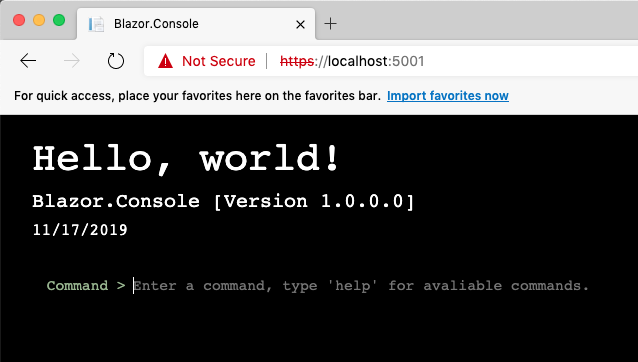
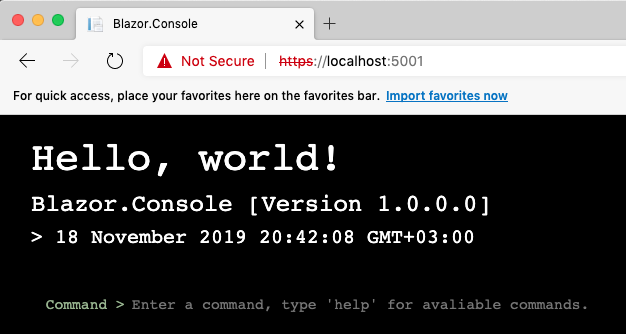
Examples

diff --git a/demo/wwwroot/Blazor.Console/styles.css b/demo/wwwroot/Blazor.Console/styles.css
@@ -15,29 +15,63 @@ body {
     background-color: black;
 }
 
-#container {
+#console #header pre {
+    font-size: 9pt;
+    color: #757575;
+    margin-left: -50px;
+}
+
+#console #container {
     padding: .1em 1.5em 1em 1em;
+    margin-top: -40px;
 }
 
-#container pre {
-    height: auto;
-    margin-bottom: -50px;
-}
+    #console #container pre {
+        height: auto;
+        margin-bottom: 0px;
+        color: #757575;
+    }
 
-#container output {
-    clear: both;
-    width: 100%;
-}
+        #console #container pre .header {
+            font-weight: bold;
+            color: #96b38a;
+        }
 
-#container output h3 {
-    margin: 0;
-}
+        #console #container pre .command {
+            color: yellow;
+        }
 
-#container output pre {
-    margin: 0;
-}
+    #console #container p {
+        margin: 0px;
+        margin-bottom:10px;
+    }
 
-.input-line {
+    #console #container .progress {
+        margin-top: -30px;
+    }
+
+        #console #container .progress .main {
+            display: block
+        }
+
+        #console #container .progress .subtext {
+            display: block
+        }
+
+    #console #container output {
+        clear: both;
+        width: 100%;
+    }
+
+        #console #container output h3 {
+            margin: 0;
+        }
+
+        #console #container output pre {
+            margin: 0;
+        }
+
+#console .input-line {
     display: -webkit-box;
     -webkit-box-orient: horizontal;
     -webkit-box-align: stretch;
@@ -50,13 +84,13 @@ body {
     clear: both;
 }
 
-.input-line>div:nth-child(2) {
-    -webkit-box-flex: 1;
-    -moz-box-flex: 1;
-    box-flex: 1;
-}
+    #console .input-line > div:nth-child(2) {
+        -webkit-box-flex: 1;
+        -moz-box-flex: 1;
+        box-flex: 1;
+    }
 
-.prompt {
+#console .prompt {
     white-space: nowrap;
     color: #96b38a;
     margin-right: 7px;
@@ -73,7 +107,7 @@ body {
     user-select: none;
 }
 
-.cmdline {
+#console .cmdline {
     outline: none;
     background-color: transparent;
     margin: 0;

diff --git a/src/Blazor.Console/BlazorConsole.razor.cs b/src/Blazor.Console/BlazorConsole.razor.cs
@@ -15,8 +15,8 @@ namespace Blazor.Console
         protected string Disabled { get; set; } = null;
         protected string Placeholder { get; set; } = "Enter a command, type 'help' for avaliable commands.";
         [Parameter] public Dictionary<string, ICommand> Commands { get; set; }
-        [Inject] public IServiceProvider ServiceProvider { get; set; }
-        [Inject] public ICommandRunning RunningCommand { get; set; }
+        [Inject] internal IServiceProvider ServiceProvider { get; set; }
+        [Inject] public IRunningCommand RunningCommand { get; set; }
         [Inject] internal ILogger<CommandInput> Logger { get; set; }
 
         CommandInput cmd;
@@ -28,7 +28,7 @@ namespace Blazor.Console
 
         protected override void OnInitialized()
         {
-            RunningCommand = new CommandRunning();
+            RunningCommand = new RunningCommand();
             RunningCommand.SubscribeToCommandProgressChanged("console", OnProgressChangedEvent);
 
             cmd = new CommandInput(Logger, ServiceProvider, RunningCommand);

diff --git a/src/Blazor.Console/Command/CommandInput.cs b/src/Blazor.Console/Command/CommandInput.cs
@@ -6,8 +6,7 @@ namespace Blazor.Console.Command
     using System.Linq;
     using System.Threading.Tasks;
     using Microsoft.Extensions.Logging;
-    using CommandLine;
-    
+
     public class Input
     {
         public string Text { get; set; }
@@ -27,12 +26,12 @@ namespace Blazor.Console.Command
             }
         }
 
-        readonly ICommandRunning _runningCommand;
+        readonly IRunningCommand _runningCommand;
         readonly Dictionary<string, ICommand> _commands;
         readonly ILogger<CommandInput> _logger;
         readonly IServiceProvider _provider;
 
-        public CommandInput(ILogger<CommandInput> logger, IServiceProvider provider, ICommandRunning runningCommand)
+        public CommandInput(ILogger<CommandInput> logger, IServiceProvider provider, IRunningCommand runningCommand)
         {
             _provider = provider;
             _runningCommand = runningCommand;

diff --git a/src/Blazor.Console/ServiceCollectionExtensions.cs b/src/Blazor.Console/ServiceCollectionExtensions.cs
@@ -11,7 +11,7 @@
         public static IServiceCollection AddConsole(this IServiceCollection serviceCollection,Action<ConsoleOptions> options=null)
         {
 
-            serviceCollection.AddTransient<ICommandRunning, CommandRunning>();
+            serviceCollection.AddTransient<IRunningCommand, RunningCommand>();
             var consoleOptions = new ConsoleOptions();
 
             if (options != null)
@@ -19,8 +19,7 @@
             
                 options.Invoke(consoleOptions);
             }
-
-            serviceCollection.AddTransient<ILongRunningCommand, LongCommand>();
+            
             if (consoleOptions.UseDefaultServices)
             {
                 serviceCollection.AddTransient<IHelpCommand, HelpCommand>();

diff --git a/src/Blazor.Console/BuiltInCommands.cs b/src/Blazor.Console/BuiltInCommands.cs
@@ -90,12 +90,12 @@ namespace Blazor.Console
 
     internal class LongCommand : ILongRunningCommand
     {
-        readonly ICommandRunning _loadingService;
+        readonly IRunningCommand _loadingService;
 
         public string Output { get; set; }
         public string Help { get; }
 
-        public LongCommand(ICommandRunning loadingService)
+        public LongCommand(IRunningCommand loadingService)
         {
             _loadingService = loadingService;
         }

diff --git a/src/Blazor.Console/Command/IRunningCommand.cs b/src/Blazor.Console/Command/IRunningCommand.cs
@@ -5,7 +5,7 @@ using System.Threading.Tasks;
 
 namespace Blazor.Console.Command
 {
-    public interface ICommandRunning
+    public interface IRunningCommand
     {
         Task StartCommandAsync(Func<ICommandStatus, Task> action, string context = "", string maintext = null, string subtext = null);
         void SubscribeToCommandProgressChanged(string context, Action<ICommandStatus> action);

diff --git a/src/Blazor.Console/Command/RunningCommand.cs b/src/Blazor.Console/Command/RunningCommand.cs
@@ -6,7 +6,7 @@ using System.Threading.Tasks;
 
 namespace Blazor.Console.Command
 {
-    public class CommandRunning : ICommandRunning
+    public class RunningCommand : IRunningCommand
     {
         private static ConcurrentDictionary<string, TaskContext> _tasks = new ConcurrentDictionary<string, TaskContext>();
 
